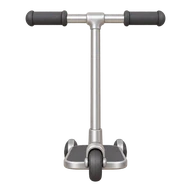
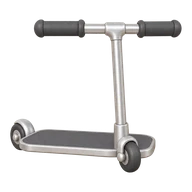
꾸미기: 목욕탕 의자는 키우고, 킥보드는 발판이 넓은 3/4 각도로 다시 받는다
- 목욕탕 의자는 윗면이 두 발 폭과 같아 작아 보였다. 폭 260 → 300px, 앉는 면 y 916.
- 킥보드는 정면 그림의 발판이 두 발보다 좁아 받침대처럼 보였다. 발판이 넓은
  3/4 각도 그림(v2)으로 바꾸고 발판 윗면을 두 발 사이 y 914 에 맞춘다.

Changed region(s): [[0.0312, 0.0312, 0.9688, 0.9688]]

diff --git a/tools/build_avatar_assets.py b/tools/build_avatar_assets.py
@@ -148,10 +148,12 @@ OVERLAYS = {
 #             더 내리면 발등이 비친다
 #   통굽 부츠 128px 간격에서 발 15px가 비쳐 118px로 모으고 밑창 끝을 y=958에 둔다
 #   스케이트보드 폭 380px, 윗면 가운데를 y=925에 두면 바퀴가 y=1008에서 끝난다
-#   목욕탕 의자 폭 260px, 낮은 앉는 면을 y=925에 두면 다리가 y=1015에서 끝난다
+#   목욕탕 의자 폭 260px 은 윗면이 두 발 폭과 같아 작아 보였다. 300px 로 키우고
+#             다리가 캔버스(1024) 안에서 끝나게 앉는 면을 y=916 에 둔다
 #   로봇청소기 폭 320px, 윗면 가운데를 y=925에 두고 아래 끝을 y=1020 안에 둔다
-#   킥보드    손잡이 폭 340px 은 끝이 허리 옆에 점처럼만 보여 킥보드로 안 읽혔다.
-#             440px 로 키워 손잡이가 가슴 높이에서 몸 양옆으로 나오게 한다. 발판은 y=925
+#   킥보드    v2: 정면 그림은 발판이 두 발보다 좁아 받침대처럼 보였다. 발판이 넓은
+#             3/4 각도로 다시 받았다(v2 는 Codex 그림에 투명 여백만 넓힌 것). 발판 윗면
+#             가운데를 두 발 사이 y 914 에, 바퀴가 캔버스 안(y 1016)에서 끝나게
 #   OPEN      폭 270px, 중심 (160, 135). 머리 왼쪽 위, 삿갓 챙 밖에 크게 띄운다
 #             (앱은 후광을 1.2배 키워 60px 올려 그린다 — halo_spin.dart)
 #   와이파이  v3: 머리에서 신호가 나가도록 후광 크기 부채꼴. 바깥 호 반지름(586)을 330px,
@@ -198,9 +200,9 @@ PLACED = {
     "feet_hightops": ("feet", 136 / 403.8, (626.5, 944), (511, 927), ("robe",)),
     "feet_platformboots": ("feet", 118 / 417.6, (627.5, 990), (511, 958), ("robe",)),
     "seat_skateboard": ("body", 380 / 1000, (627, 550), (512, 925), ()),
-    "seat_bathstool": ("body", 260 / 922, (627, 504), (512, 925), ()),
+    "seat_bathstool": ("body", 300 / 922, (627, 504), (512, 916), ()),
     "seat_robovac": ("body", 320 / 899, (626.5, 602), (512, 925), ()),
-    "seat_kickboard": ("body", 440 / 780, (627, 970), (512, 925), ()),
+    "seat_kickboard": ("body", 0.48, (699, 1012), (512, 914), ()),
     "halo_open": ("head", 270 / 1000, (627, 627), (160, 135), ()),
     "halo_wifi": ("head", 330 / 586, (627, 949), (510, 400), ()),
     "halo_loading": ("head", 666 / 890, (627, 627), (510, 356), ()),
